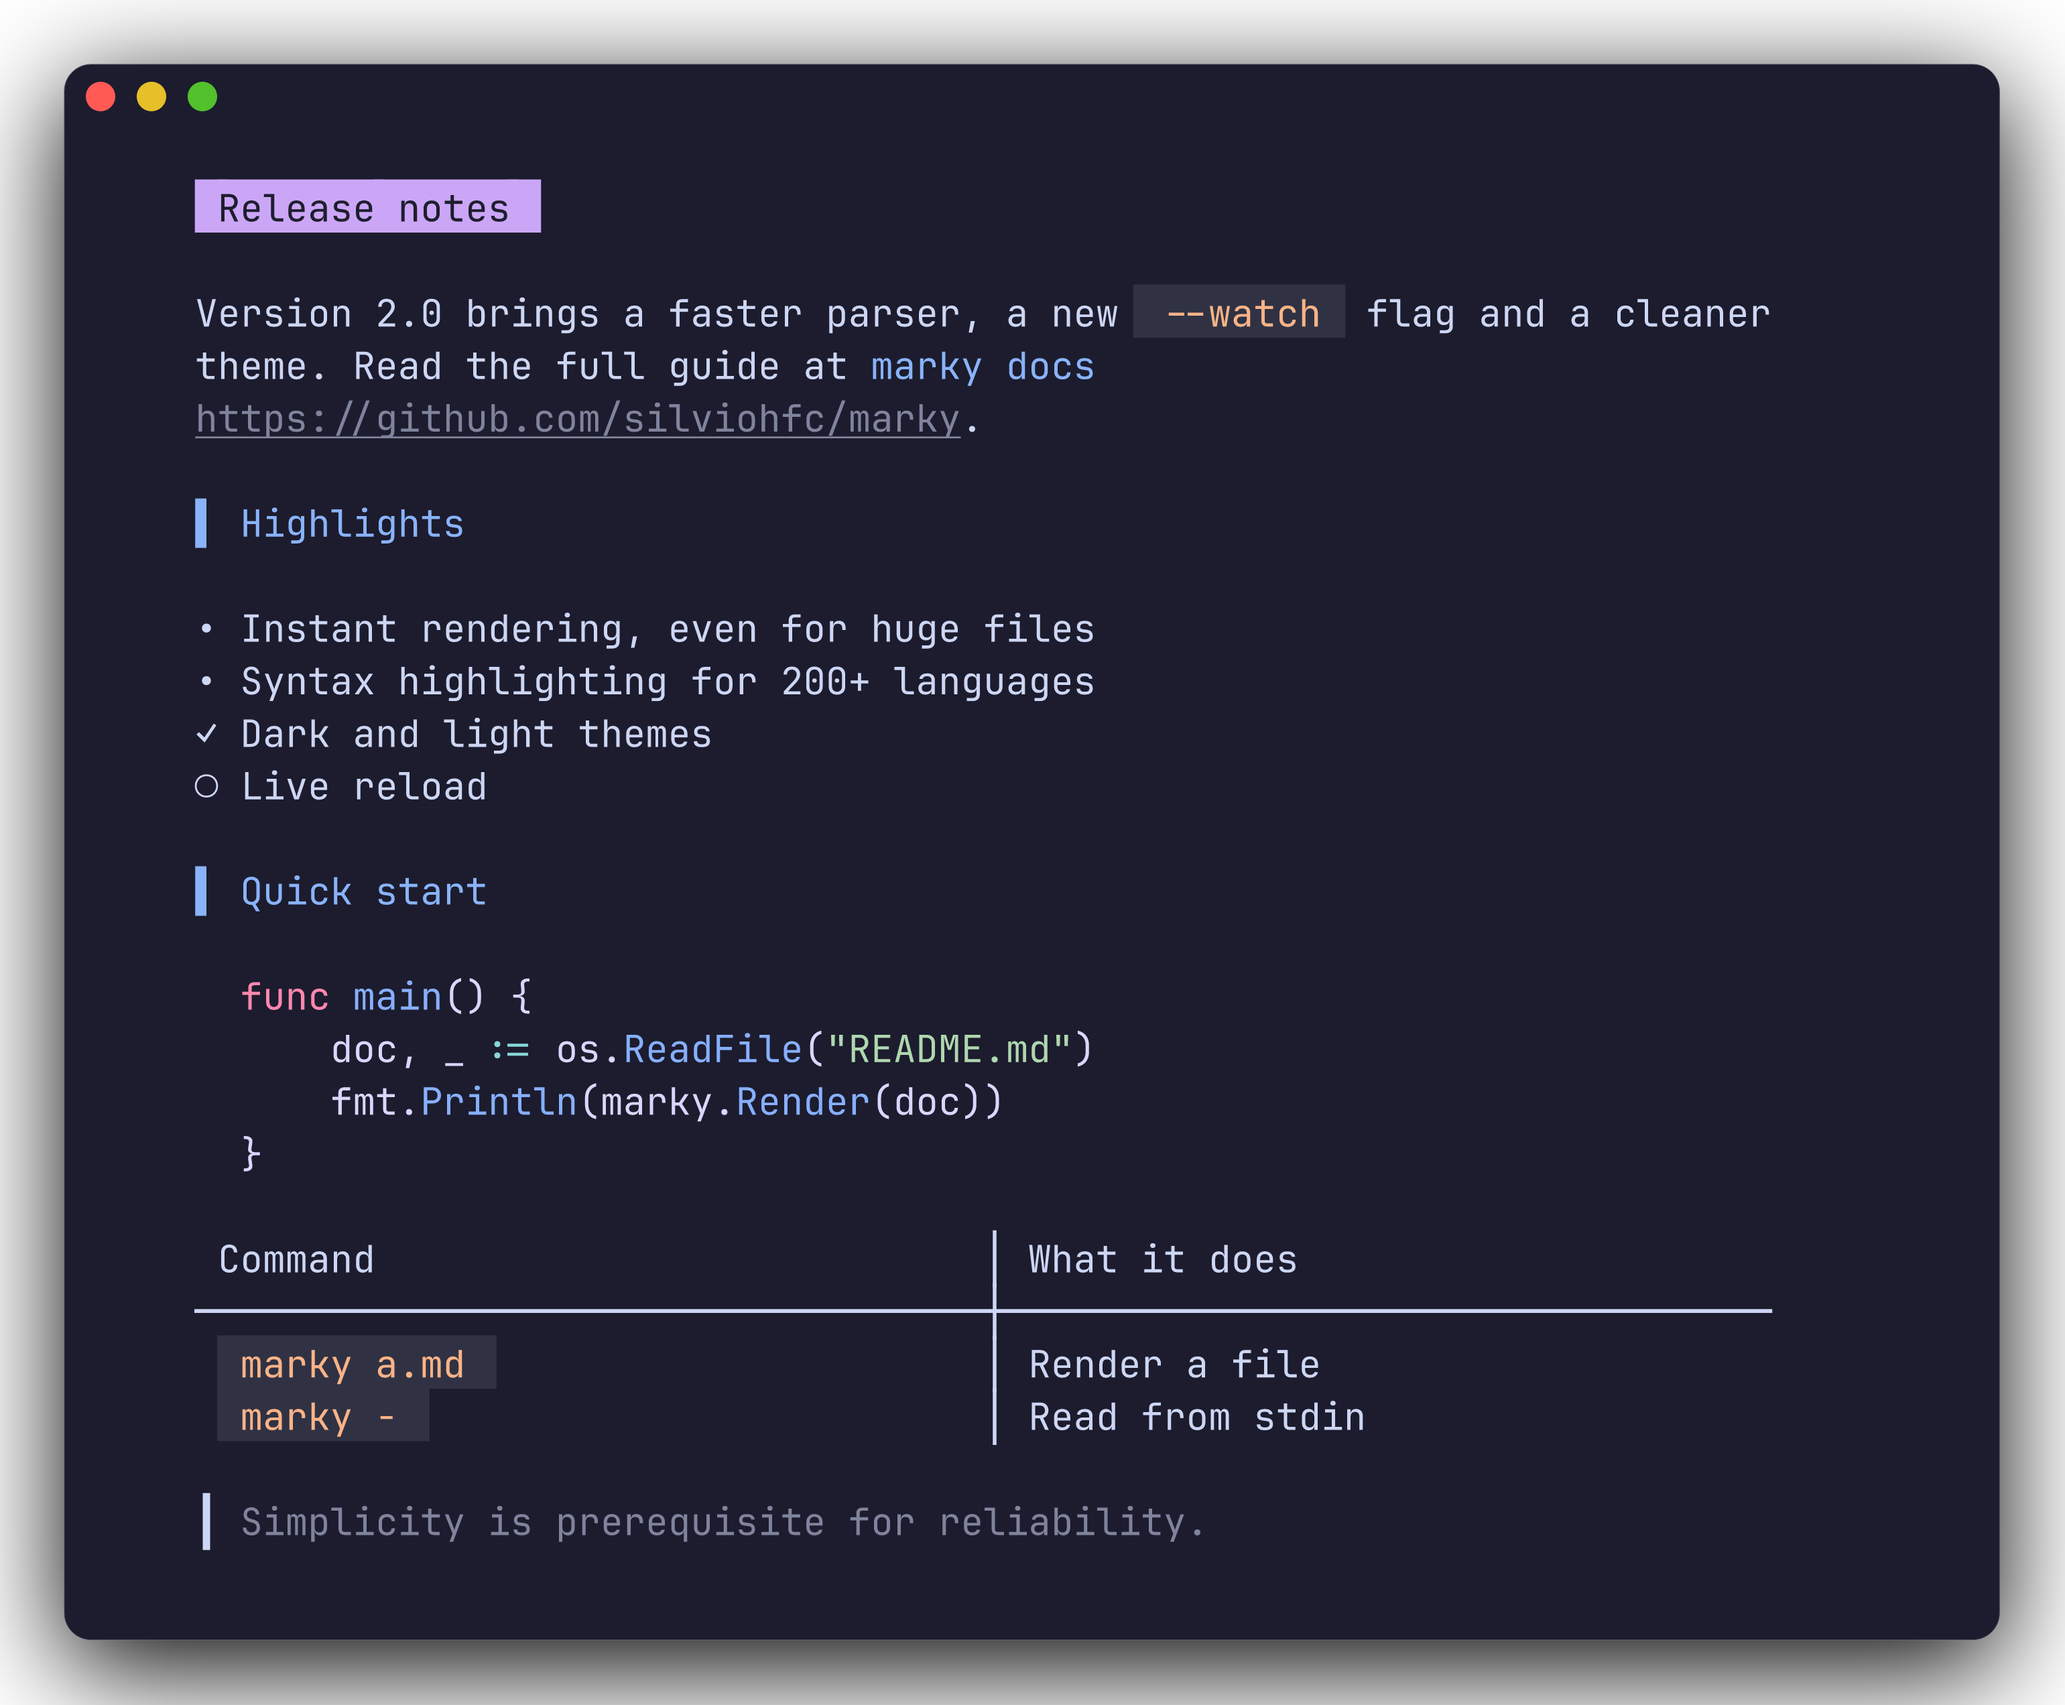
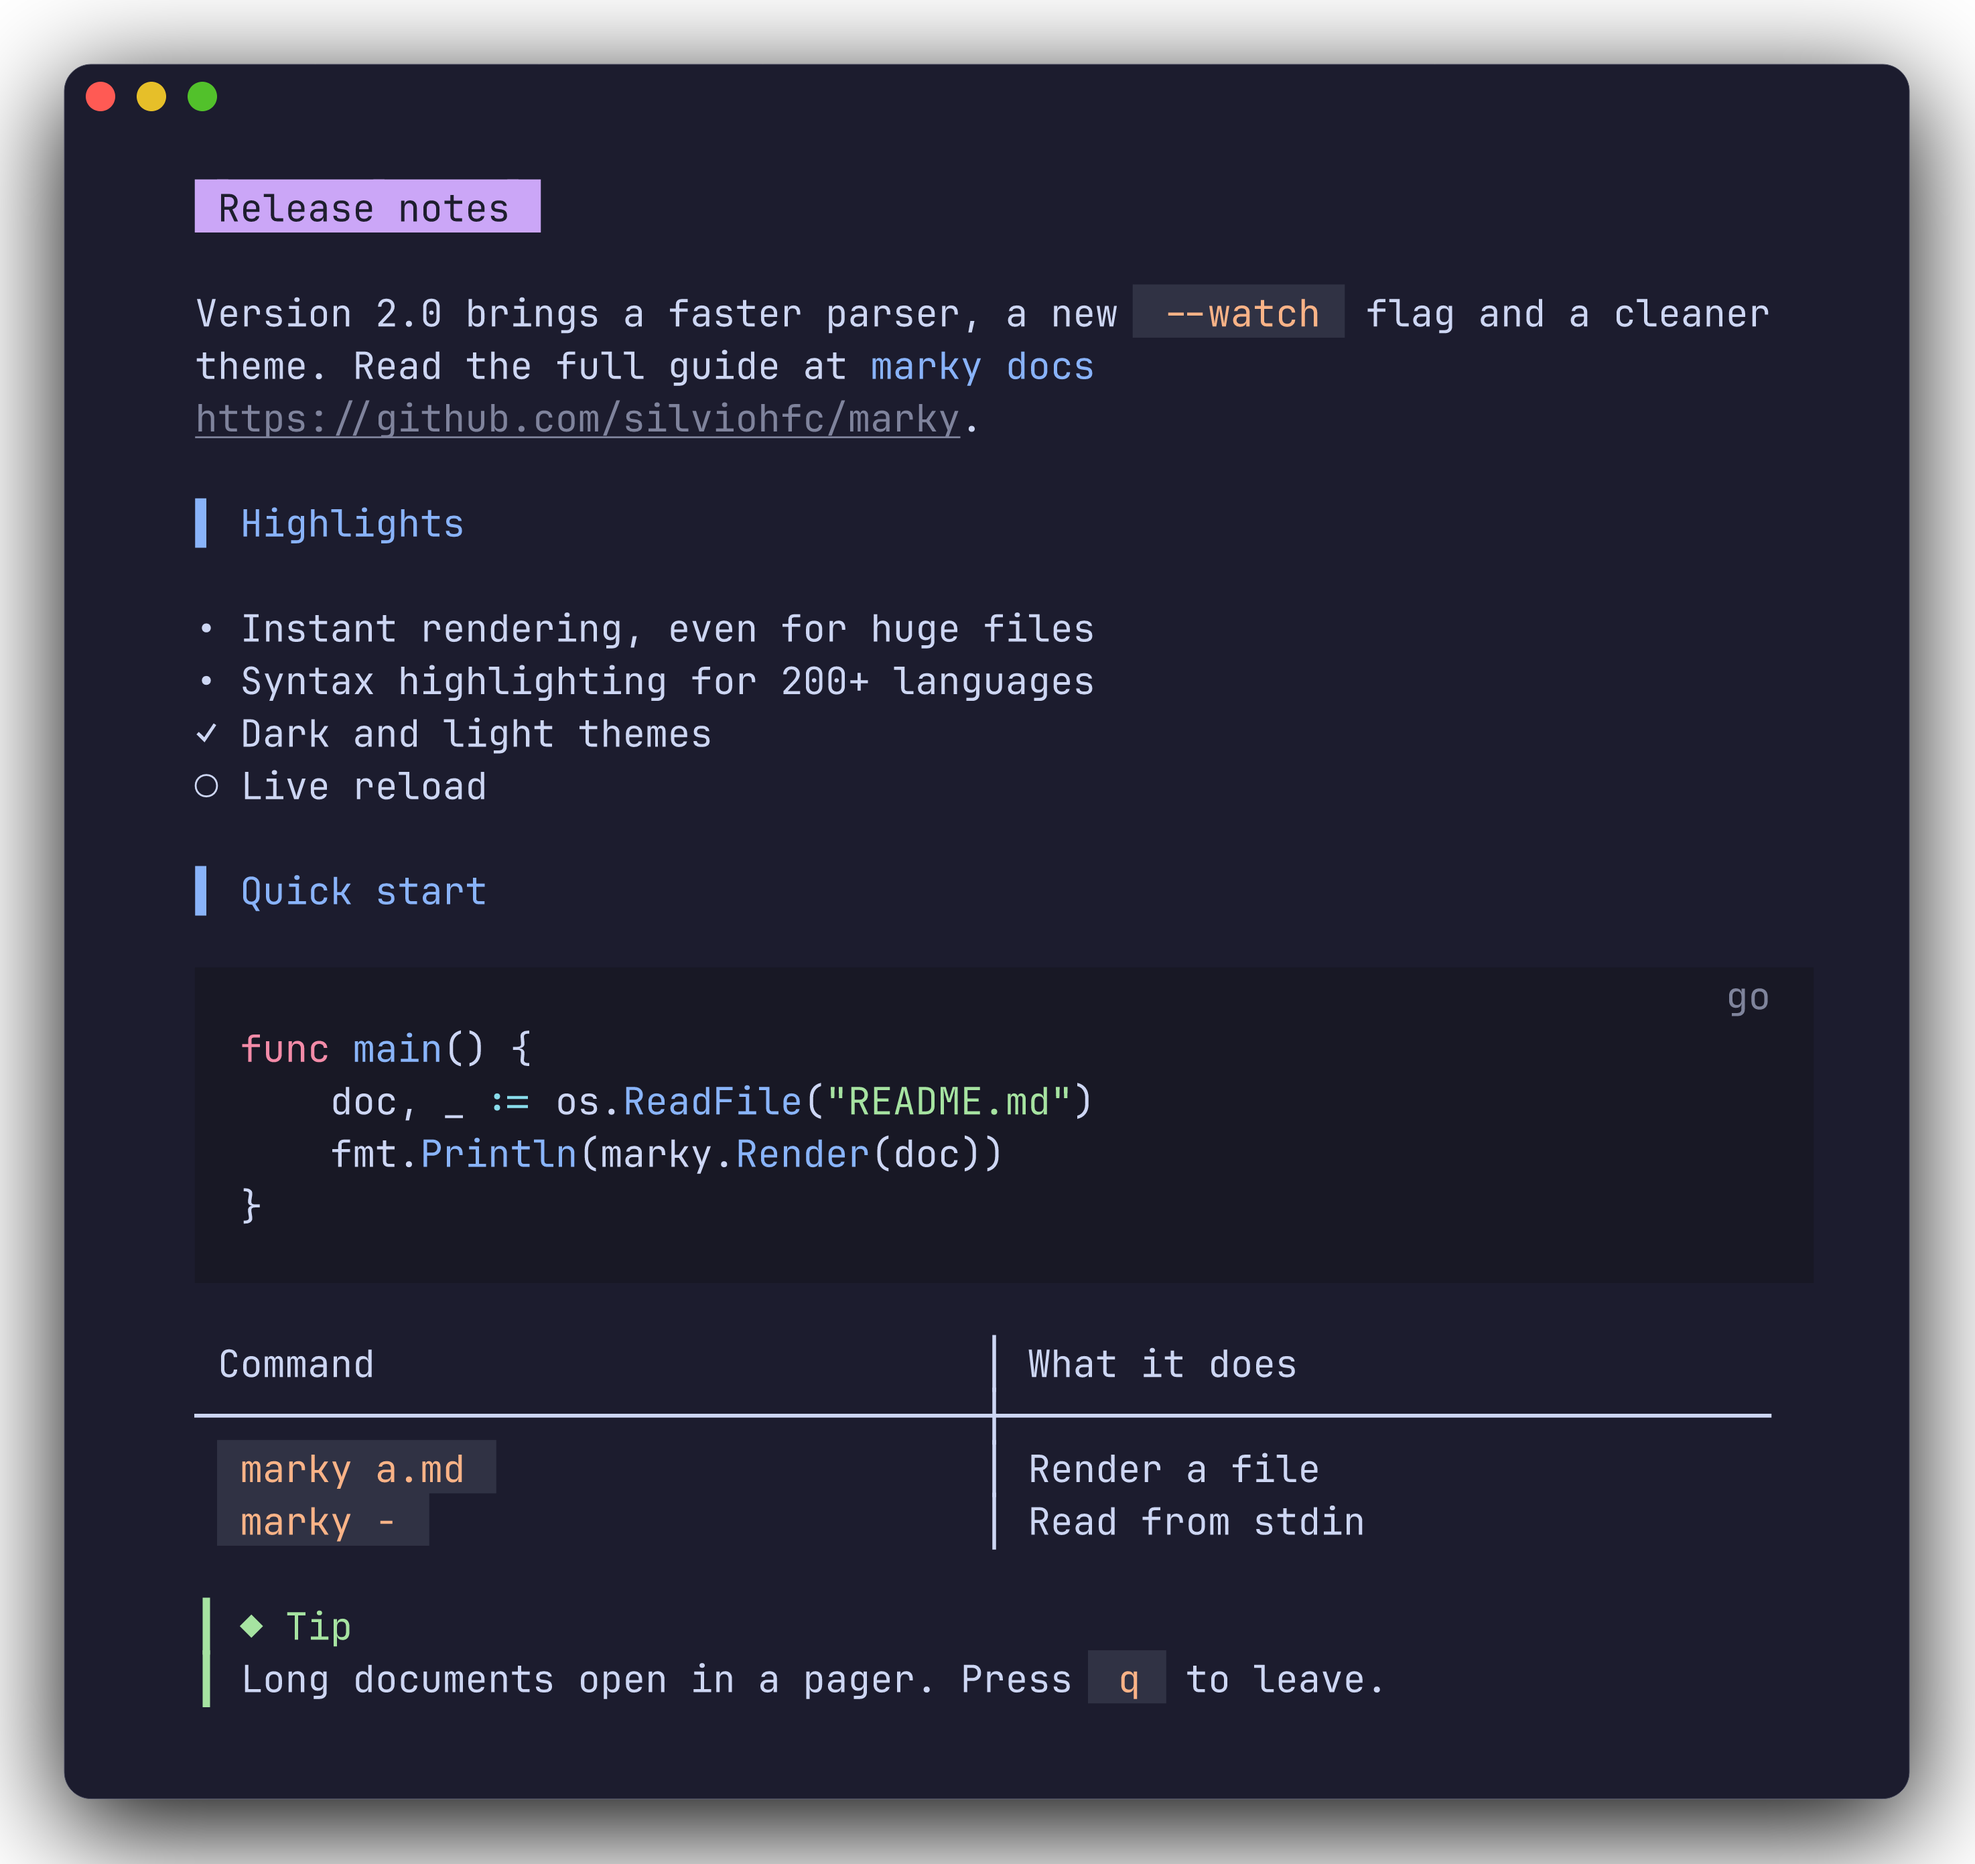
docs: show code panel and callout in screenshot

diff --git a/README.pt-BR.md b/README.pt-BR.md
@@ -33,7 +33,7 @@ Nada de `#`, `*`, `` ` `` ou `>` na tela. A estrutura vem das cores e da tipogra
 <td width="50%" valign="top">
 
 🎨 **Tema moderno**<br>
-Catppuccin Mocha em terminais escuros, Latte nos claros. Blocos de código com realce de sintaxe combinando.
+Catppuccin Mocha em terminais escuros, Latte nos claros. O código fica num painel próprio com o nome da linguagem, e os alertas do GitHub (`[!NOTE]`, `[!TIP]`…) viram callouts coloridos.
 
 </td>
 </tr>

diff --git a/README.md b/README.md
@@ -33,7 +33,7 @@ No `#`, `*`, `` ` `` or `>` on screen. Structure comes from color and typography
 <td width="50%" valign="top">
 
 🎨 **Modern theme**<br>
-Catppuccin Mocha on dark terminals, Latte on light ones. Code blocks get matching syntax highlighting.
+Catppuccin Mocha on dark terminals, Latte on light ones. Code sits on its own panel with a language label, and GitHub alerts (`[!NOTE]`, `[!TIP]`…) become colored callouts.
 
 </td>
 </tr>

diff --git a/docs/demo.md b/docs/demo.md
@@ -24,4 +24,5 @@ func main() {
 | `marky a.md` | Render a file      |
 | `marky -`    | Read from stdin    |
 
-> Simplicity is prerequisite for reliability.
+> [!TIP]
+> Long documents open in a pager. Press `q` to leave.
